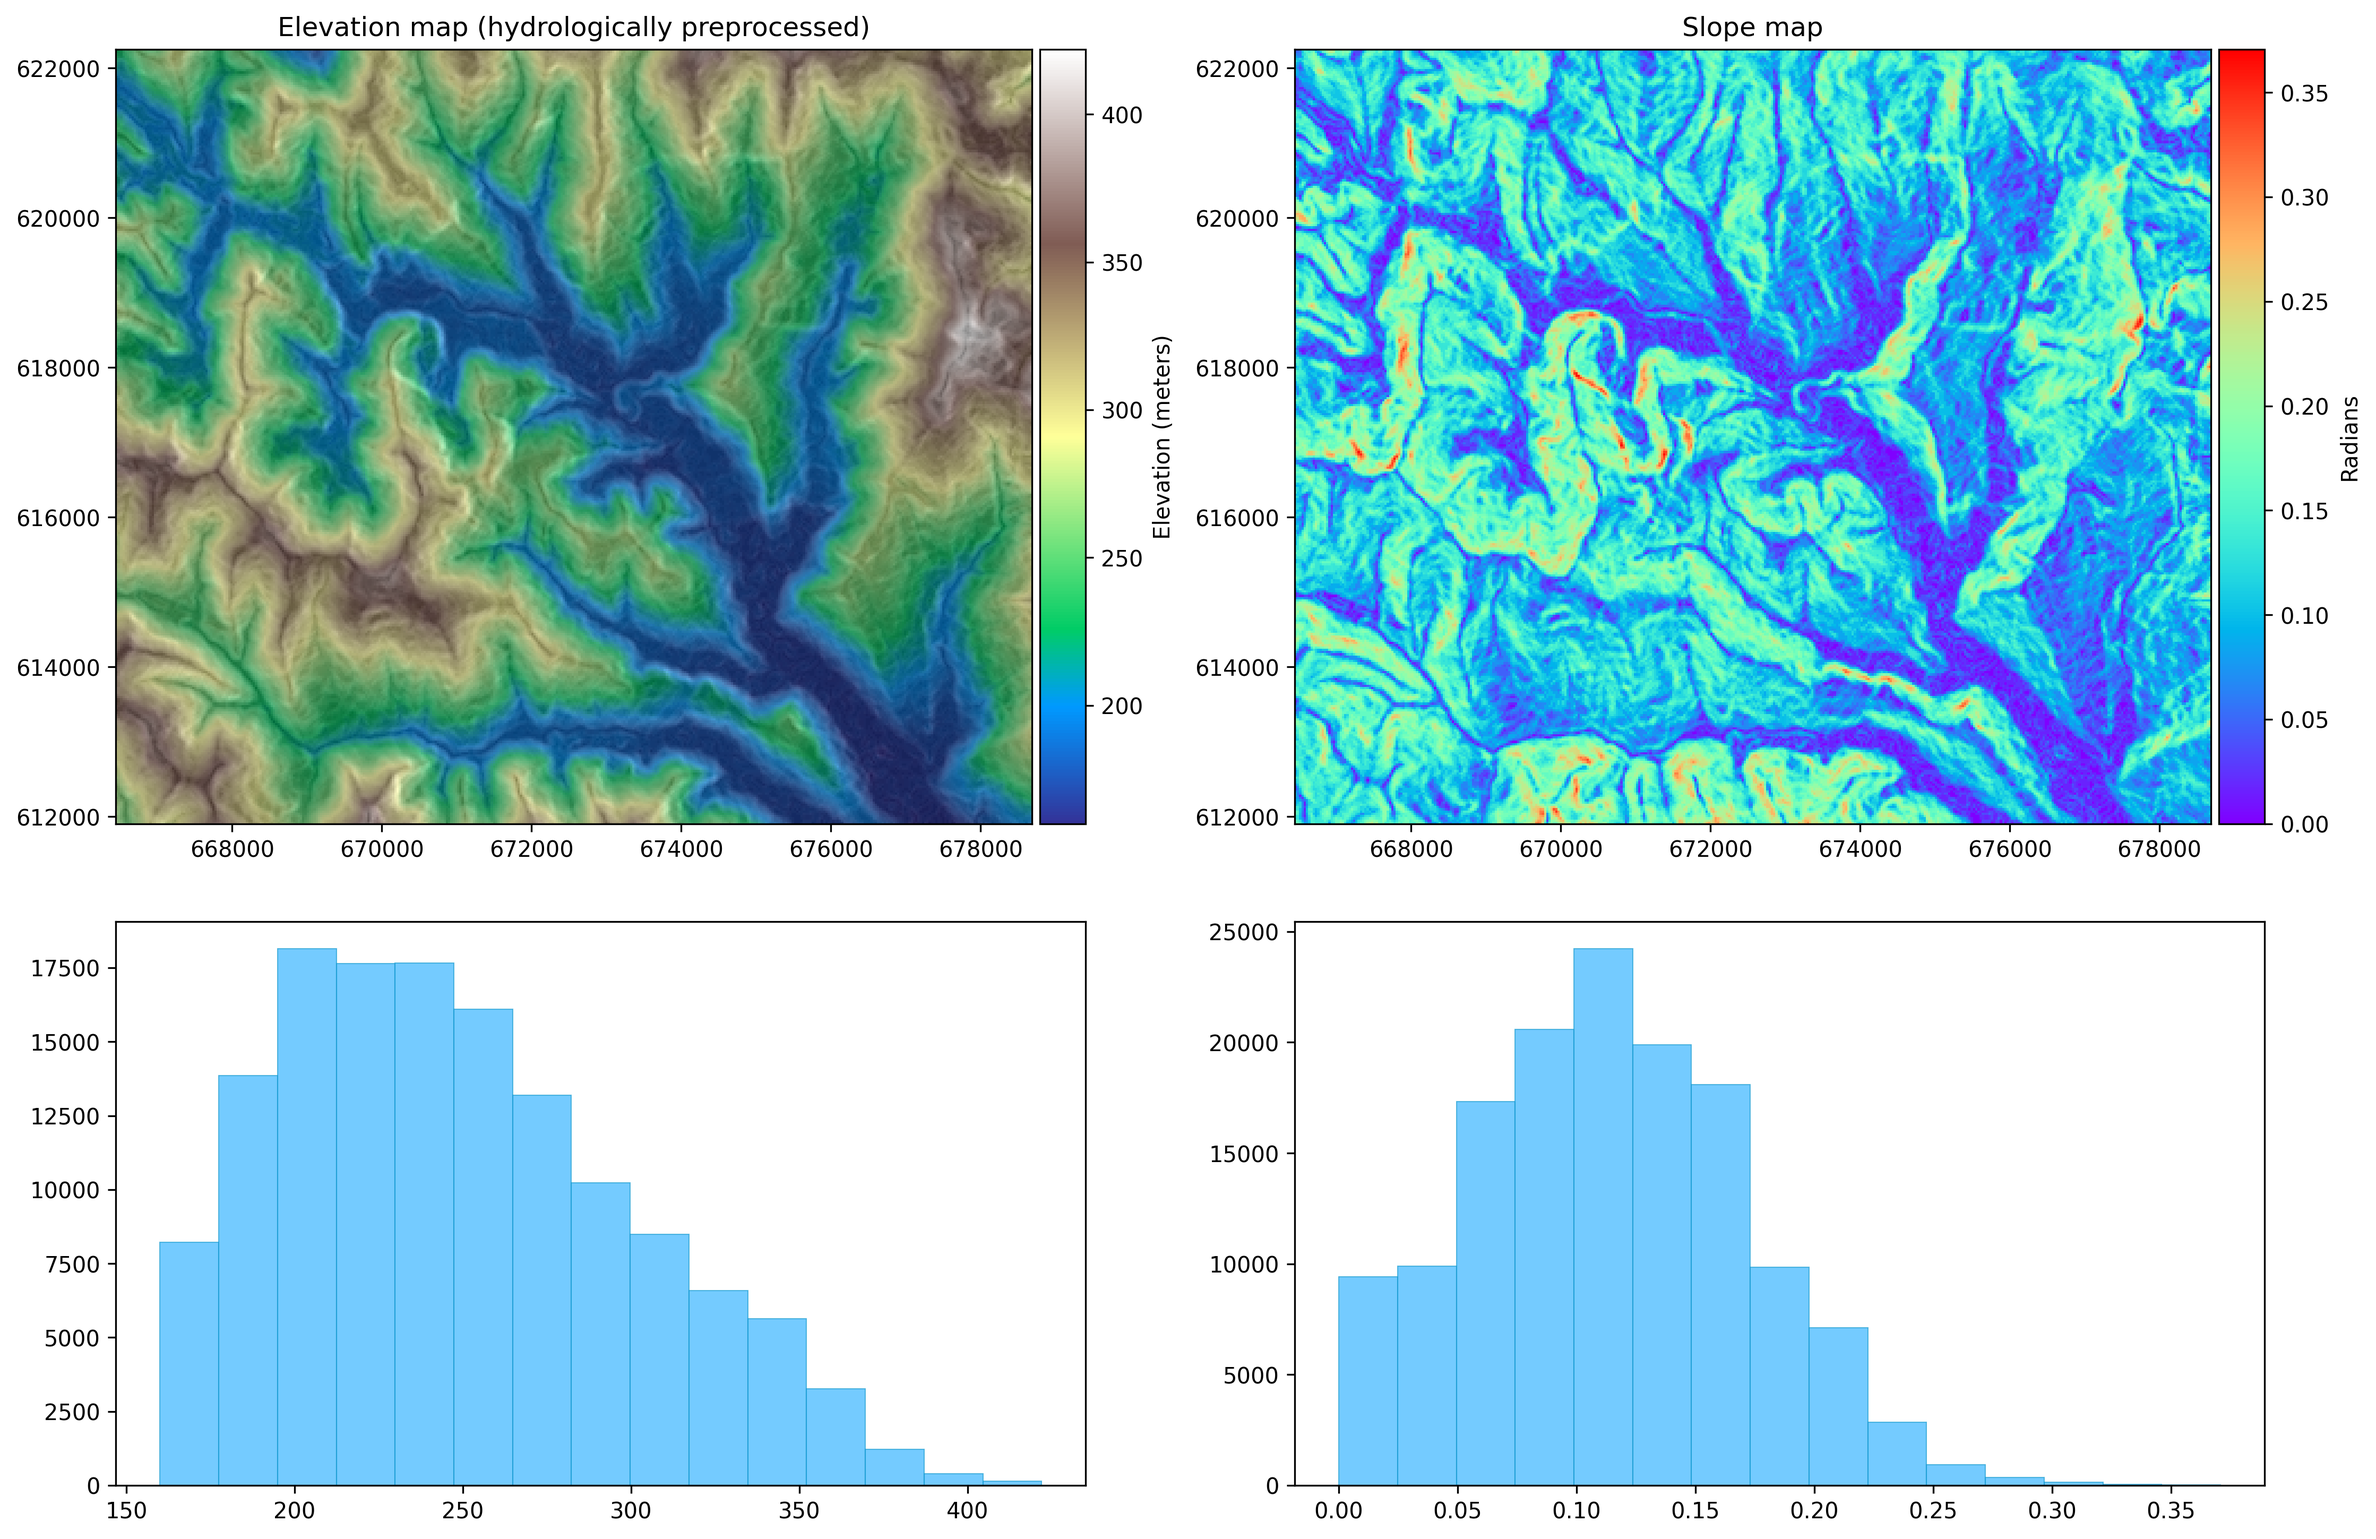
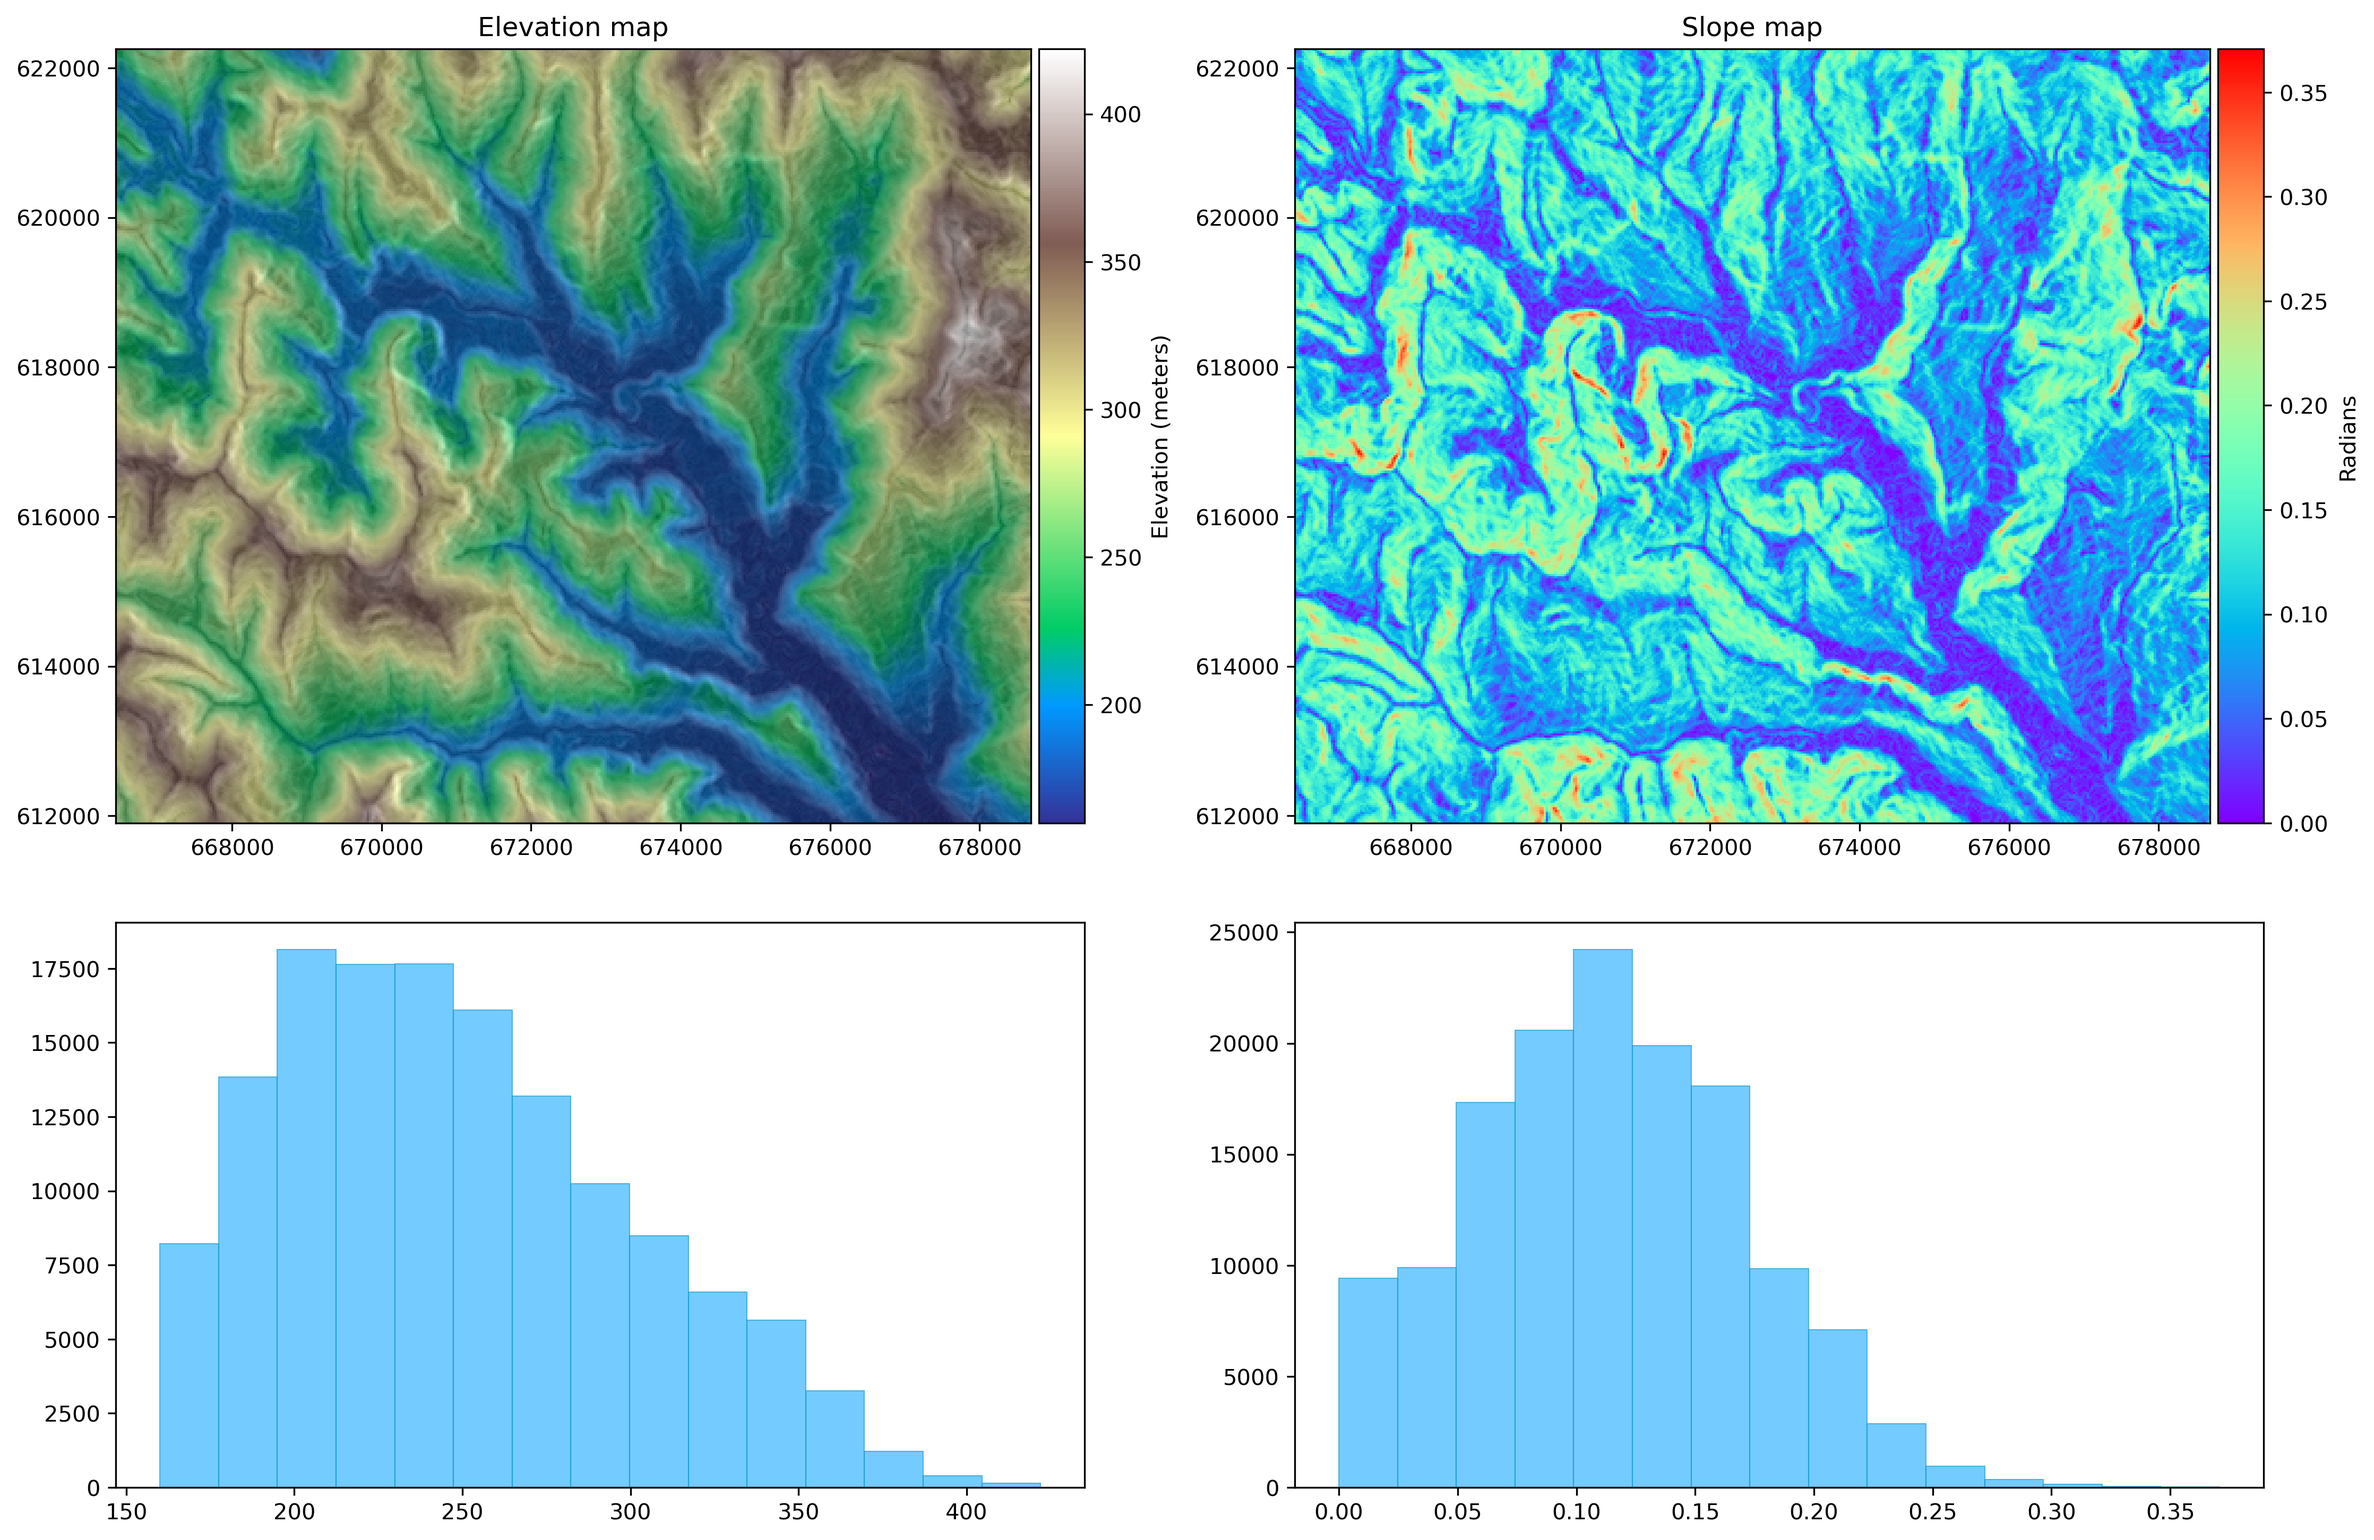
added example

diff --git a/examples/plot.py b/examples/plot.py
@@ -1,0 +1,56 @@
+import os
+from pathlib import Path
+
+from PySAGA_cmd import SAGA
+import matplotlib.pyplot as plt
+from matplotlib import gridspec
+
+
+if __name__ == '__main__':
+
+    here = Path(__file__)
+    os.chdir(here.parent)
+
+    dem = Path('../data/example_input/DEM_30m.tif')
+    saga = SAGA('/usr/local/bin/saga_cmd')
+
+    # Defining tools.
+    slope_aspect_curvature = saga / 'ta_morphometry' / 0  # We can also use tool indices to access tools.
+    shading = saga / 'ta_lighting' / 'Analytical Hillshading'
+
+    # Executing tools.
+    output1 = slope_aspect_curvature.execute(verbose=True, elevation=dem, slope='temp.sdat')
+    elevation, slope = output1.get_raster(['elevation', 'slope'])
+
+    output2 = shading.execute(verbose=True, elevation=dem, shade='temp.sdat', method='5')
+    shading = output2.get_raster('shade')[0]
+
+    fig = plt.figure(figsize=(15, 10))
+
+    gs = gridspec.GridSpec(2, 2, height_ratios=[1.5, 1])
+    ax1 = fig.add_subplot(gs[0])
+    ax2 = fig.add_subplot(gs[1])
+    ax3 = fig.add_subplot(gs[2])
+    ax4 = fig.add_subplot(gs[3])
+
+    # Maps
+    elevation.plot(ax=ax1, cmap='terrain', cbar_kwargs=dict(label='Elevation (meters)'))
+    slope.plot(ax=ax2, cmap='rainbow', cbar_kwargs=dict(label='Radians'))
+    shading.plot(ax=ax1, cbar=False, alpha=0.45)
+    ax1.set_title('Elevation map')
+    ax2.set_title('Slope map')
+
+    # Histograms
+    hist_kwargs = {
+        'bins': 15, 'alpha': 0.65,
+        'facecolor': '#2ab0ff', 'edgecolor': '#169acf',
+        'linewidth': 0.5
+    }
+    elevation.hist(ax=ax3, **hist_kwargs)
+    slope.hist(ax=ax4, **hist_kwargs)
+
+    plt.tight_layout()
+
+    fig.savefig('../assets/plot1.png', dpi=300, bbox_inches='tight')
+
+    saga.temp_dir_cleanup()
